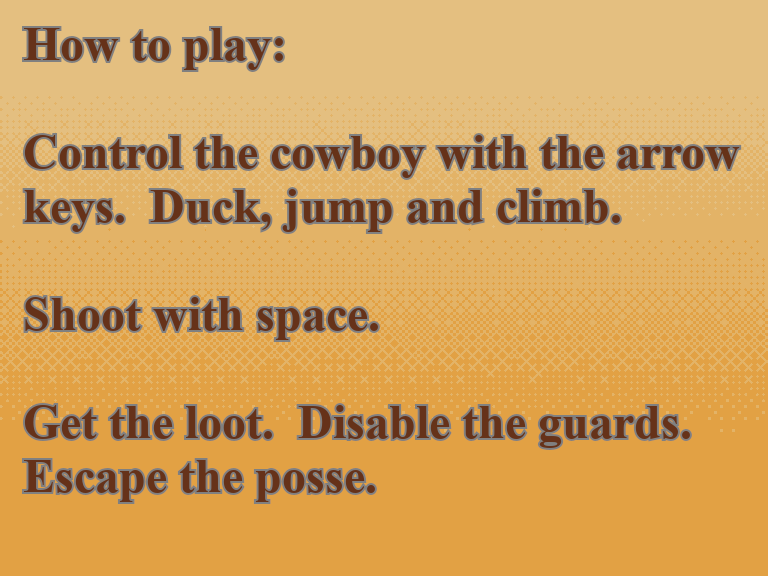
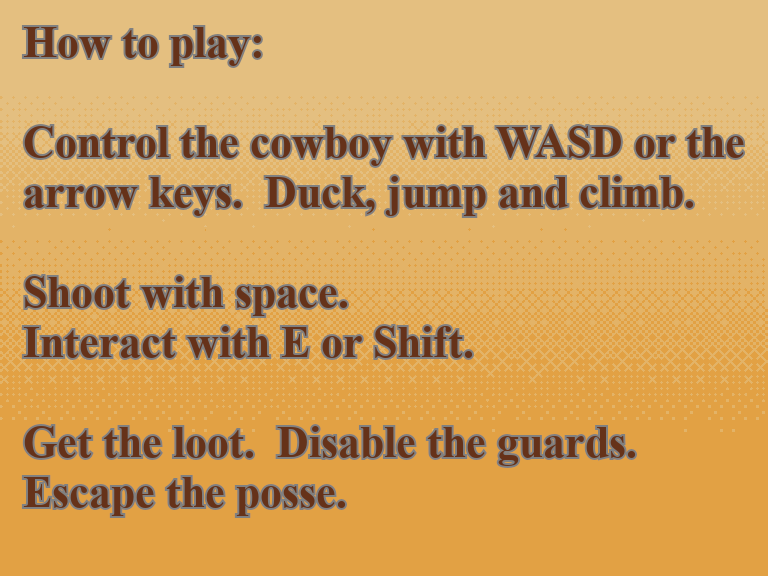
Add moneybag collectibles & update car collisions - Create Collectible class with independent interact zones and fade-in logic. - Initialize two moneybag collectibles on opposite sides of the train car interior. - Add wheels sprite and interior floor collision zones to TrainCar. - Preload moneybags 

diff --git a/collectible.js b/collectible.js
@@ -1,0 +1,34 @@
+import Actor from './actor.js'
+
+export default class Collectible extends Actor {
+    constructor({ scene, sprite, x, y, value }) {
+        super({ scene, sprite, x, y, health: 1 });
+        this.x = x;
+        this.y = y;
+        this.value = value || 10;
+    }
+
+    create() {
+        this.spriteObj = this.scene.add.image(this.x, this.y, this.sprite).setOrigin(0, 0);
+        // Set scale similar to player or train car, 3 is used for train
+        this.spriteObj.setScale(3);
+        this.spriteObj.setAlpha(0); // Start invisible, sync with traincar interior
+
+        // Create its own interact zone
+        this.interactZone = this.scene.add.zone(this.x, this.y).setSize(16 * 3, 16 * 3).setOrigin(0, 0);
+        this.scene.physics.world.enable(this.interactZone);
+        this.interactZone.body.setAllowGravity(false);
+        this.interactZone.body.moves = false;
+        this.interactZone.collectible = this;
+    }
+
+    update(targetAlpha) {
+        if (this.spriteObj) {
+            if (this.spriteObj.alpha < targetAlpha) {
+                this.spriteObj.alpha = Math.min(1, this.spriteObj.alpha + 0.05);
+            } else if (this.spriteObj.alpha > targetAlpha) {
+                this.spriteObj.alpha = Math.max(0, this.spriteObj.alpha - 0.05);
+            }
+        }
+    }
+}

diff --git a/traincar.js b/traincar.js
@@ -1,5 +1,6 @@
 // Train car.
 import Actor from './actor.js'
+import Collectible from './collectible.js'
 // Listens for rhythm based commands and updates Actor class
 
 export default class TrainCar extends Actor {
@@ -29,6 +30,12 @@ export default class TrainCar extends Actor {
         this.createCollisionPlatforms();
         this.createLadders();
         this.createInteractZones();
+
+        this.collectible1 = new Collectible({ scene: this.scene, sprite: 'moneybags', x: this.x + 300, y: this.y + 70, value: 100 });
+        this.collectible1.create();
+
+        this.collectible2 = new Collectible({ scene: this.scene, sprite: 'moneybags', x: this.x + 650, y: this.y + 70, value: 100 });
+        this.collectible2.create();
     }
 
     createCollisionPlatforms() {
@@ -120,6 +127,13 @@ export default class TrainCar extends Actor {
 
         // Toggle interior collision zone
         if (this.interiorFloor) this.interiorFloor.body.enable = isInside;
+
+        if (this.collectible1) {
+            this.collectible1.update(targetAlpha);
+        }
+        if (this.collectible2) {
+            this.collectible2.update(targetAlpha);
+        }
     }
 
 };

diff --git a/game.js b/game.js
@@ -5,9 +5,13 @@ import Level from './level.js'
 
 const config = {
 	type: Phaser.AUTO,
-	pixelArt: true,
+	//pixelArt: true,
 	width: 768,
 	height: 576,
+	render: {
+		pixelArt: true, // no blur on sprites
+		// roundPixels: true // no blur on geometry (recommended for 2D)
+	},
 	physics: {
 		default: 'arcade',
 		arcade: {

diff --git a/level.js b/level.js
@@ -27,6 +27,7 @@ export default class Level extends Phaser.Scene {
         this.passengerInterior = this.load.image('passengerinterior', 'assets/trains/interior-passengercar.png');
         this.wheels = this.load.image('wheels', 'assets/trains/wheels-for-passenger-car.png');
         this.bullet = this.load.spritesheet('bullet', 'assets/sprites/BulletFire.png', { frameWidth: 16, frameHeight: 16 });
+        this.load.image('moneybags', 'assets/sprites/moneybags.png');
 
         this.load.image('healthbar', 'assets/hud/healthbar.png');
         this.load.image('hudBg', 'assets/hud/hud-bg.png');